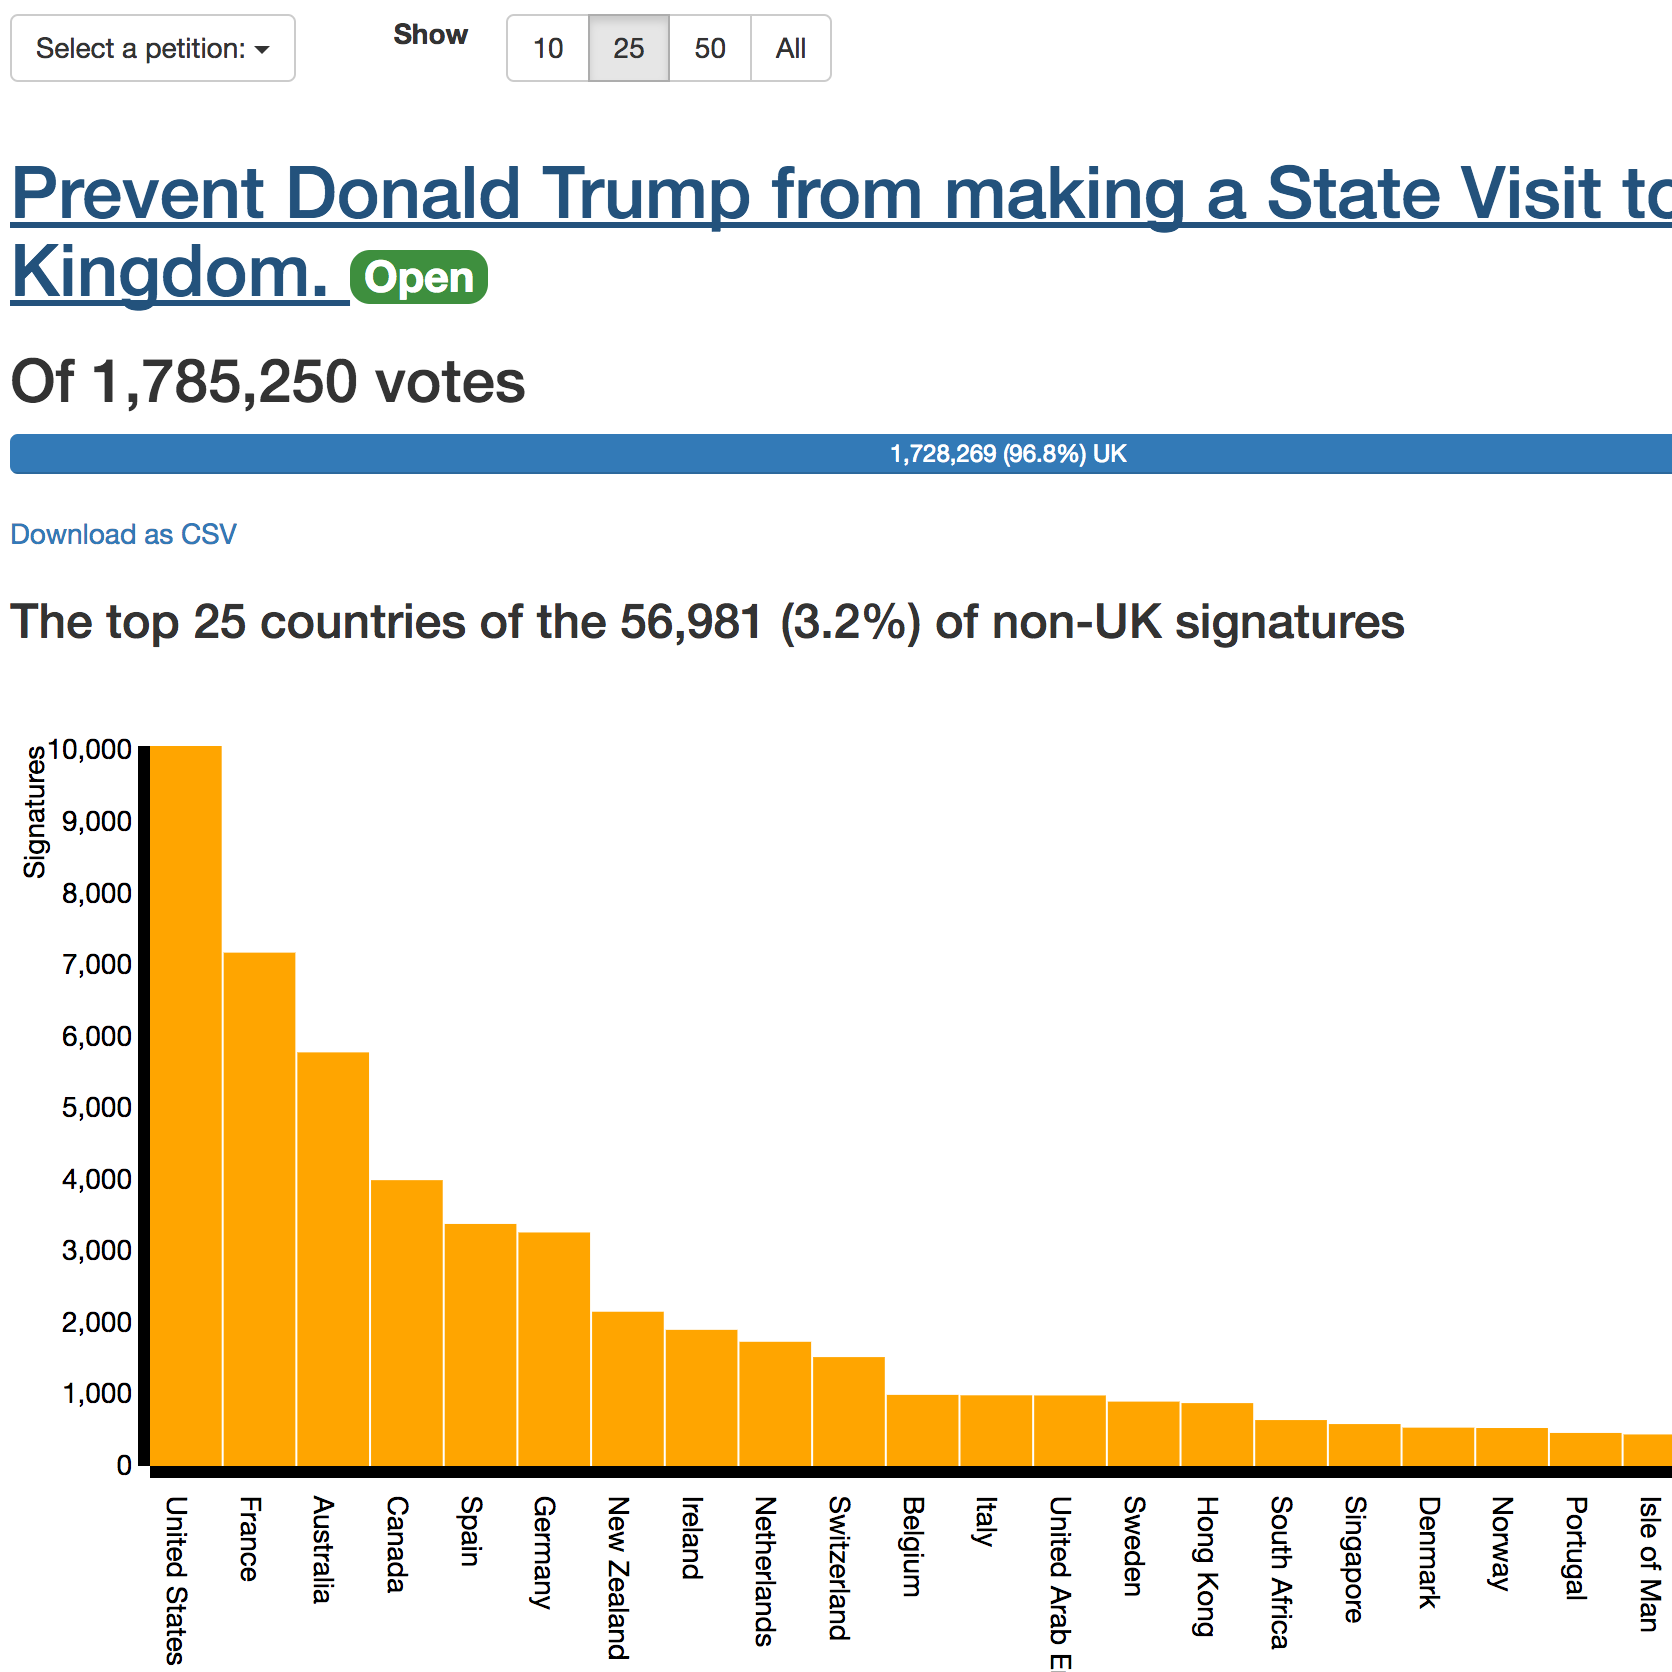
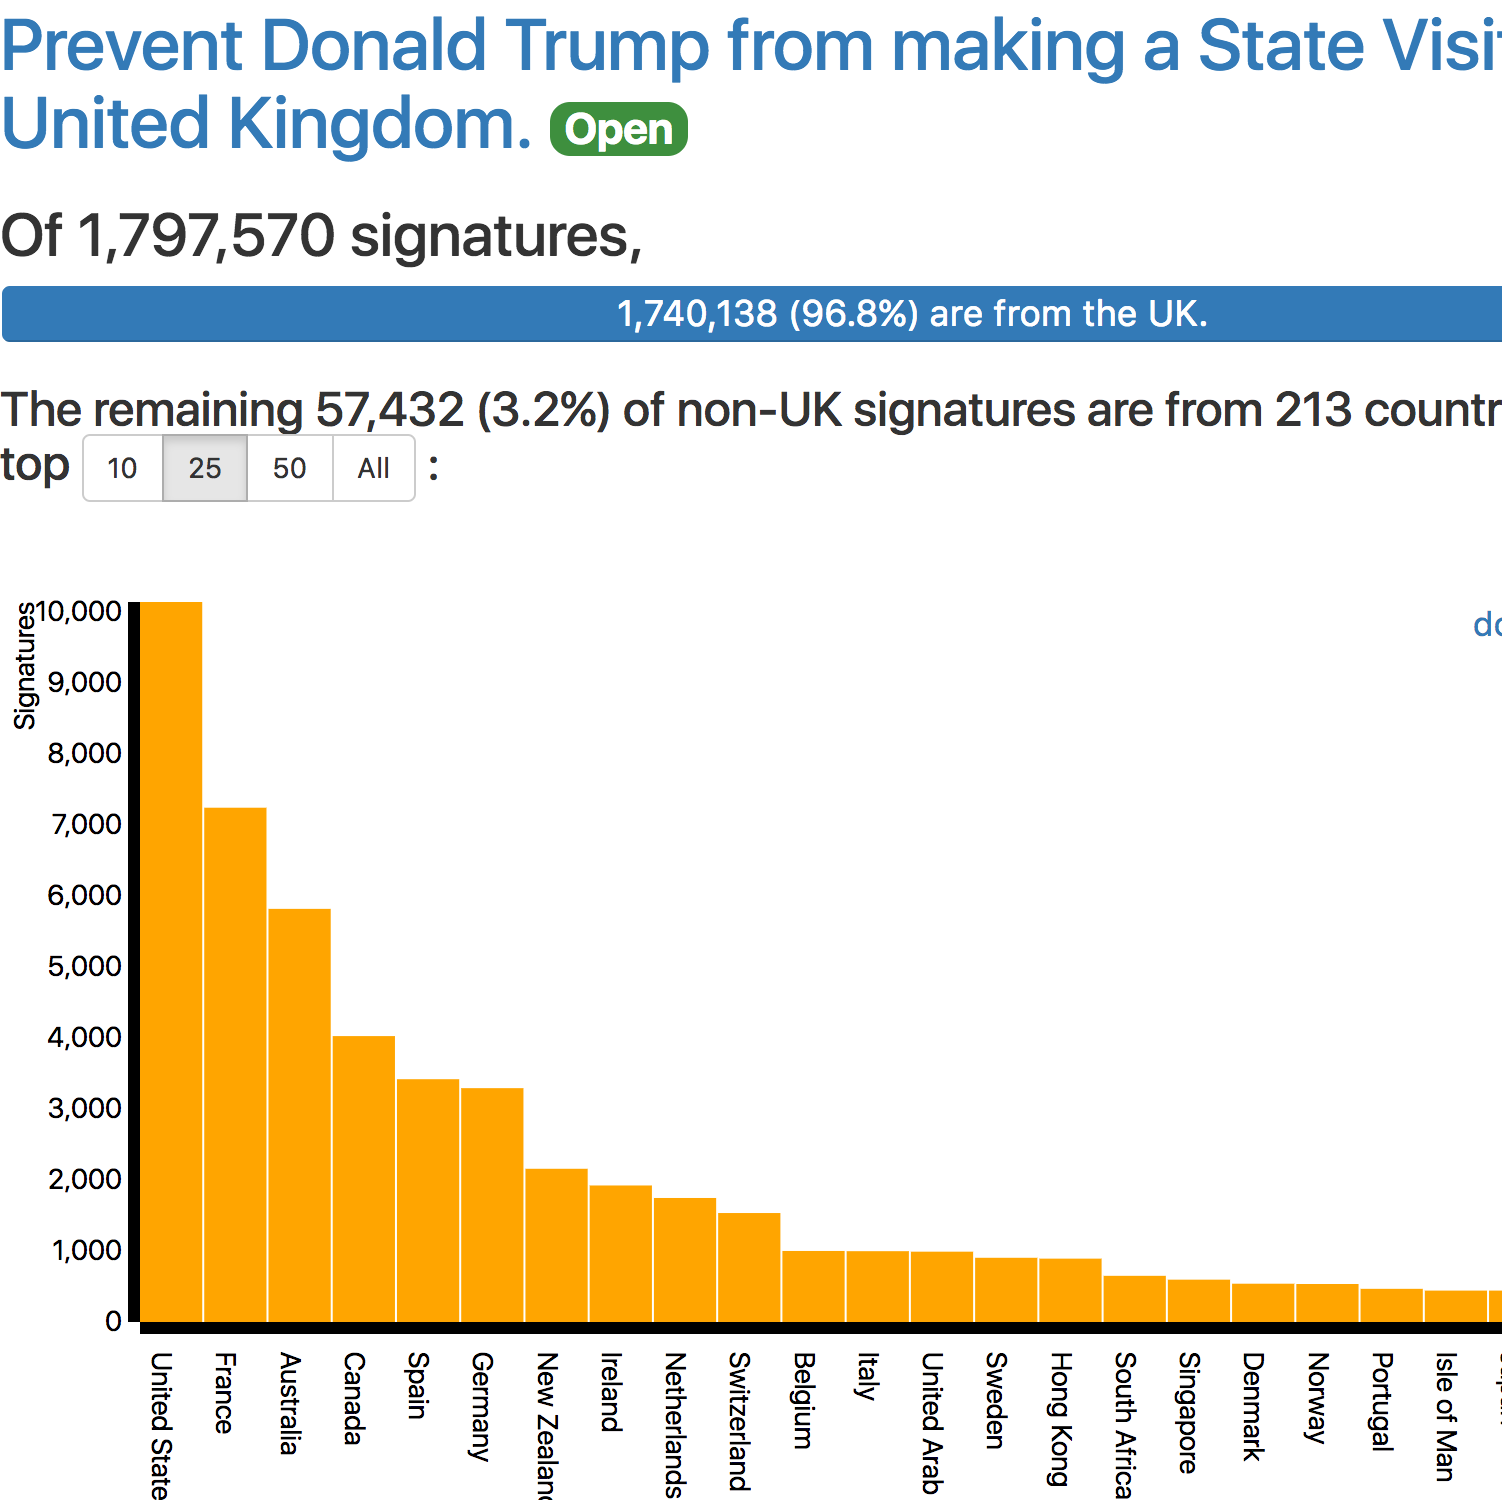
Add README, LICENSE and update preview

Changed region(s): [[0.0, 0.0, 1.0, 1.0], [0.98, 0.3987, 1.0, 0.4293]]

diff --git a/README.md b/README.md
@@ -1,0 +1,13 @@
+# GOV.UK petition signatures from outside the UK
+
+The [Trump State Visit Petition](https://petition.parliament.uk/petitions/171928) 
+made the news little over a week into Donald Trump's presidency. Trump's #MuslimBan
+was protested the world over, and in many cities in the UK.
+
+I was interested in how many people abroad had signed the petition. I'm not sure there's
+any requirement or real validity checking on the source of signatures, but it appears that
+on the popular petitions, over 95% appear to come from the UK.
+
+[Visit the site](http://zephyros-systems.co.uk/petition-signatures-outside-uk/#) (Javascript is required)
+![example](https://raw.githubusercontent.com/rgarner/non-uk-petition-signatures/master/images/site-preview.png)
+
